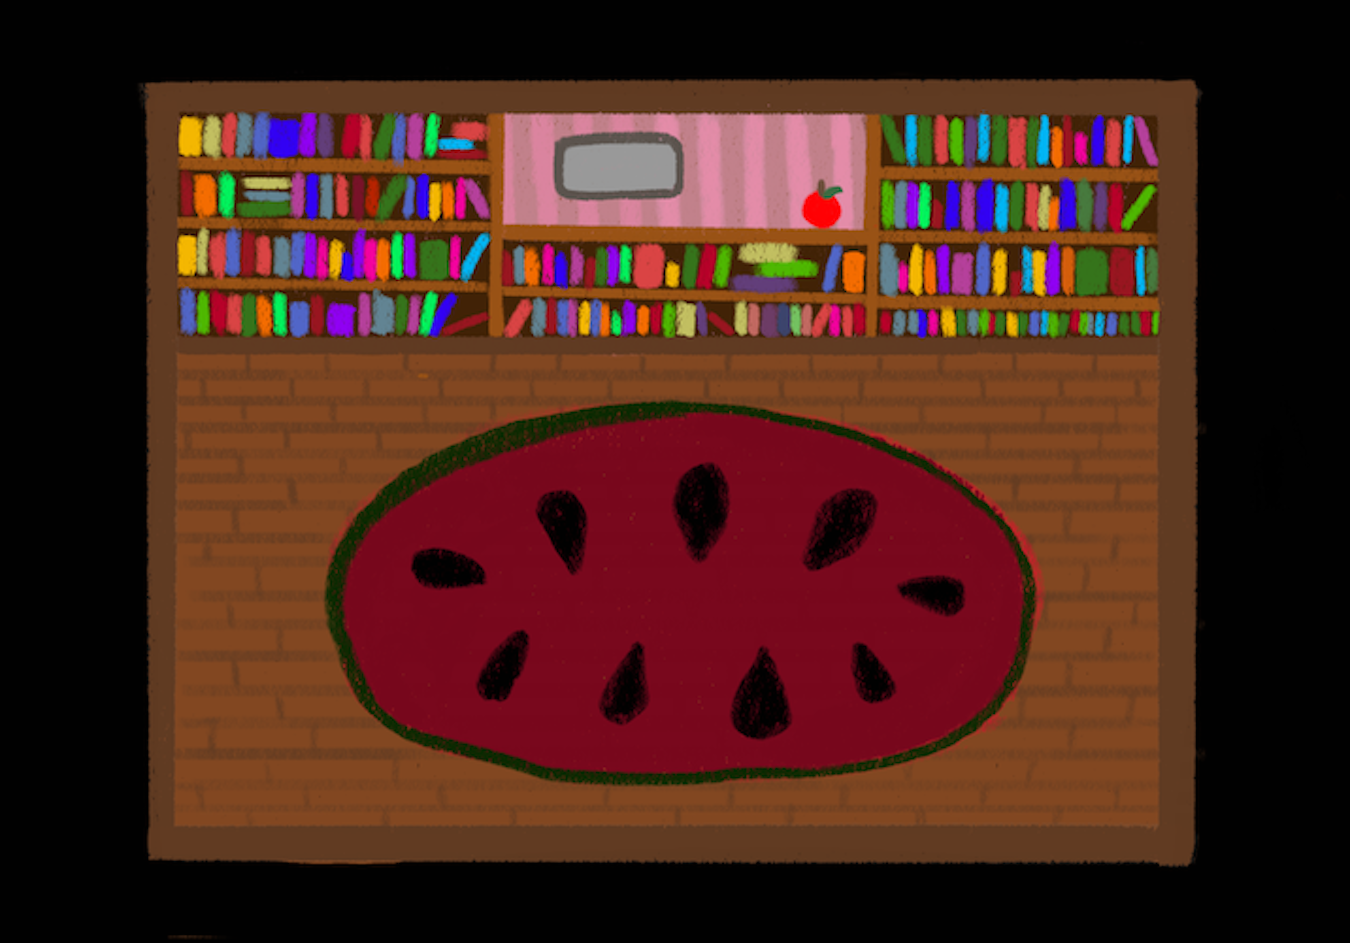
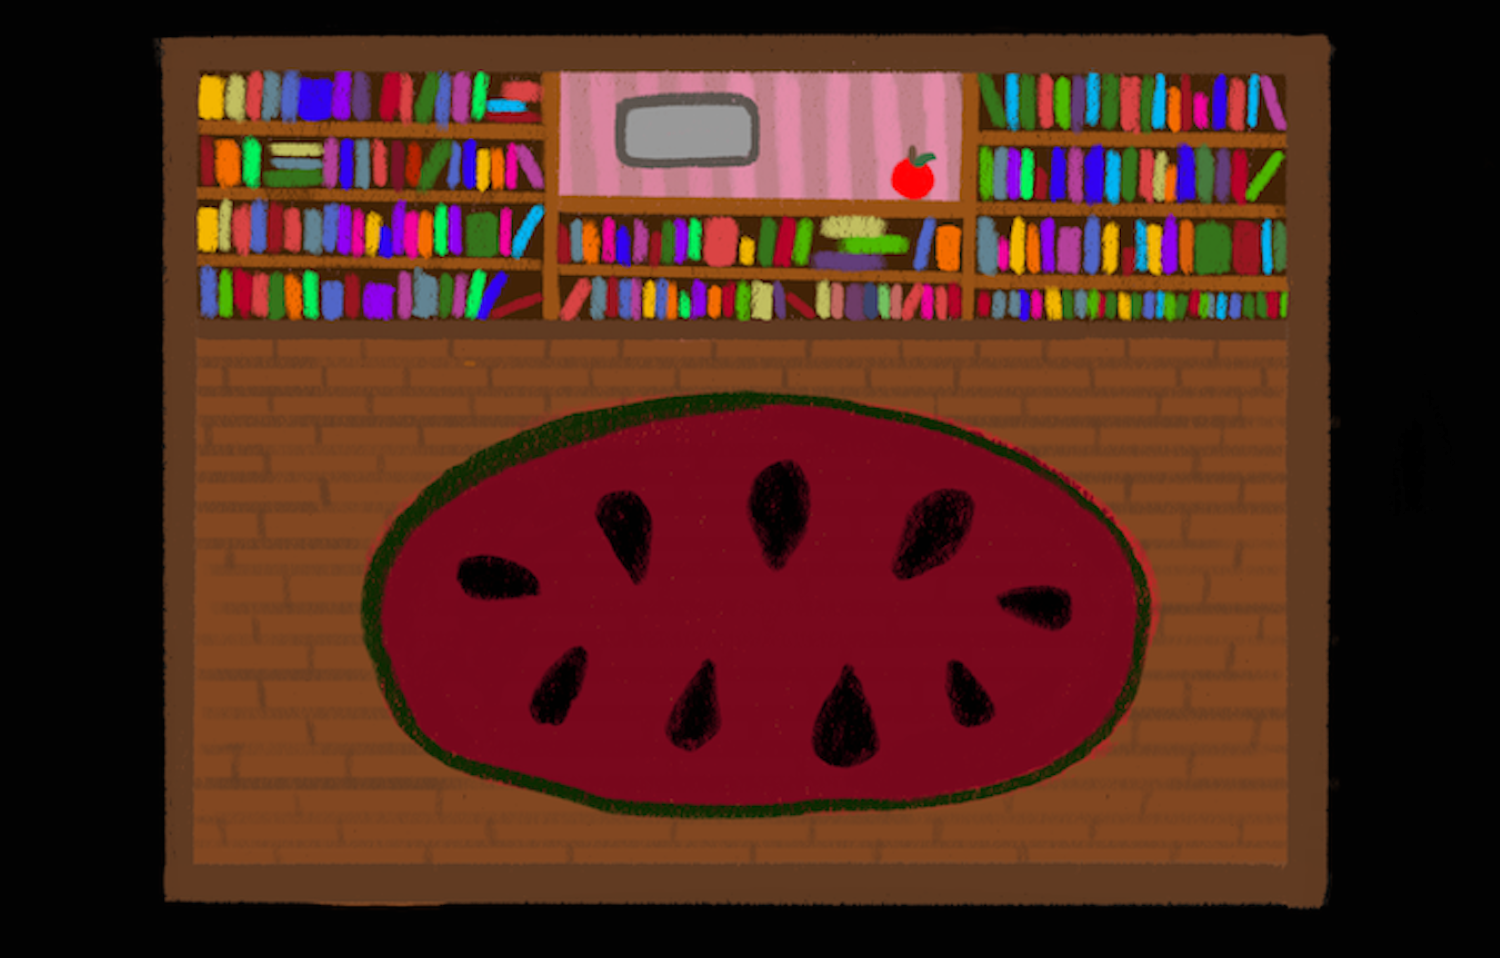
:lipstick: redesign studyroom

diff --git a/components/InvitePopup.tsx b/components/InvitePopup.tsx
@@ -64,6 +64,8 @@ const InvitePopup = ({ hostId, hostUsername, isHost }: IInvitePopup) => {
   const [setDefault] = useHomeStore((state) => [state.setDefault]);
   const [isMulti, setIsMulti] = useState(false);
   const [refresh, setRefresh] = useState(false);
+  const [guestNotFound, setGuestNotFound] = useState(false);
+  const [hostNotFound, setHostNotFound] = useState(false);
 
   const onInviteSubmit: SubmitHandler<{ inviteUsername: string }> = async (
     data,
@@ -71,21 +73,34 @@ const InvitePopup = ({ hostId, hostUsername, isHost }: IInvitePopup) => {
     const username = data.inviteUsername;
     const { data: guest } = await getPlayerByUsername(username);
     if (!guest) throw new Error("Invalid user!"); // TODO add error message to form
+    if (!guest[0]) {
+      setGuestNotFound(true);
+      setTimeout(() => setGuestNotFound(false), 1000);
+    } else {
+      await sendInviteMutation.mutateAsync({
+        hostId: hostId,
+        guestId: guest[0]._id.toString(),
+      });
+      resetInvite("inviteUsername");
 
-    await sendInviteMutation.mutateAsync({
-      hostId: hostId,
-      guestId: guest[0]._id.toString(),
-    });
-    resetInvite("inviteUsername");
-
-    refetchHostRoom();
+      refetchHostRoom();
+    }
   };
-  const onJoinSubmit: SubmitHandler<{ joinUsername: string }> = ({
+  const onJoinSubmit: SubmitHandler<{ joinUsername: string }> = async ({
     joinUsername,
   }) => {
     // router.push(`${process.env.NEXT_PUBLIC_DOMAIN}/home/${joinUsername}`);
-    window.location.href = `${process.env.NEXT_PUBLIC_DOMAIN}/home/${joinUsername}`;
-    resetJoin("joinUsername");
+    const { data: host } = await getPlayerByUsername(joinUsername);
+    if (!host) throw new Error("Invalid user!"); // TODO add error message to form
+    if (!host[0]) {
+      setHostNotFound(true);
+      setTimeout(() => setHostNotFound(false), 1000);
+    } else {
+      window.location.href = `${process.env.NEXT_PUBLIC_DOMAIN}/home/${joinUsername}`;
+      resetJoin("joinUsername");
+      setDefault();
+    }
+
     // setDefault();
   };
   // closes popup when escape key is pressed
@@ -136,11 +151,17 @@ const InvitePopup = ({ hostId, hostUsername, isHost }: IInvitePopup) => {
           <p className="text-2xl text-red-900">
             Control who can visit your habitat!
           </p>
+          {guestNotFound && (
+            <p className="w-full text-center text-2xl text-red-500">
+              User does not exist
+            </p>
+          )}
           <input
             className="h-16 w-3/4 rounded-xl p-2 text-2xl text-black outline-red-900"
             placeholder="Enter player's username"
             {...registerInvite("inviteUsername")}
           />
+
           <button className="ml-2 mt-4 h-14 w-28 rounded-3xl bg-[url('/backgrounds/redBg.png')] text-3xl text-white outline-white hover:bg-[url('/backgrounds/pinkBg.png')] hover:outline">
             Invite
           </button>
@@ -186,13 +207,7 @@ const InvitePopup = ({ hostId, hostUsername, isHost }: IInvitePopup) => {
           </div>
         </div>
       ) : isHost ? (
-        <form
-          className="-left-1/4 w-1/2 "
-          onSubmit={async () => {
-            await handleJoin(onJoinSubmit)();
-            setDefault();
-          }}
-        >
+        <form className="-left-1/4 w-1/2 " onSubmit={handleJoin(onJoinSubmit)}>
           <div className="h-full w-full rounded-3xl bg-[url('/backgrounds/whiteBg.png')] p-4">
             <img src="/icons/strawberryCow.png"></img>
             <p className="h-fit w-full text-5xl text-red-950 underline">
@@ -209,6 +224,11 @@ const InvitePopup = ({ hostId, hostUsername, isHost }: IInvitePopup) => {
             <button className="ml-2 mt-4 h-14 w-28 rounded-3xl bg-[url('/backgrounds/redBg.png')] text-3xl text-white outline-white hover:bg-[url('/backgrounds/pinkBg.png')] hover:outline">
               Join
             </button>
+            {hostNotFound && (
+              <p className="w-full text-center text-2xl text-red-500">
+                User does not exist
+              </p>
+            )}
           </div>
         </form>
       ) : (

diff --git a/app/(protected)/home/[username]/page.tsx b/app/(protected)/home/[username]/page.tsx
@@ -371,19 +371,19 @@ export default function Home({ params }: { params: { username: string } }) {
           </div>
 
           {/* studyroom */}
-          <div className="absolute flex h-full w-full select-none items-center justify-center">
+          <div className="absolute m-0 flex h-screen w-screen select-none items-center justify-center">
             <div
               id="studyroom_load_sprites"
-              className="absolute bottom-0 z-10 flex h-3/5 w-1/2 flex-wrap justify-evenly"
+              className="absolute bottom-10% z-10 flex h-3/5 w-1/2 flex-wrap justify-evenly"
             ></div>
           </div>
           {currScene == "studyroom" && (
-            <div>
+            <div className="absolute h-screen w-screen overflow-hidden bg-black bg-[url('/backgrounds/studyroom.png')] bg-contain bg-center bg-no-repeat">
               <span
                 className="absolute right-20 top-10 z-10 h-20 w-16 bg-[url('/objects/leave.png')] bg-right-top bg-no-repeat hover:bg-[url('/objects/leave_hover.png')]"
                 onClick={async () => {
                   if (!game) return;
-                  if (!isHost) {
+                  if (isHost) {
                     const player = game.registry.get(
                       "player",
                     ) as Phaser.GameObjects.Sprite;
@@ -400,7 +400,7 @@ export default function Home({ params }: { params: { username: string } }) {
                 }}
               />
 
-              <div className="w-70 z-30 m-9 flex h-52 items-center justify-center">
+              <div className="w-70 mt-2% z-30 flex h-52 items-center justify-center">
                 {/* <span className = "absolute flex flex-wrap top-0 z-30 h-1/5 w-1/5 m-16 justify-center top-0">
               <form id='duration' className = "z-40 right-0 select-none">
                 <input id='h' name='h' type='number' min='0' max='23' className = "cursor-text opacity-50"/>
@@ -422,7 +422,7 @@ export default function Home({ params }: { params: { username: string } }) {
             </div>
           )}
 
-          <div className="top-17 absolute bottom-0 right-0 z-40 ml-6 flex h-34% w-1/4 items-end justify-center p-1 text-center">
+          <div className="top-17 absolute bottom-0 right-0 z-20 ml-6 flex h-34% w-1/4 items-end justify-center p-1 text-center">
             <ChatLogPhaser
               username={
                 currentPlayer?.data
@@ -502,7 +502,7 @@ export default function Home({ params }: { params: { username: string } }) {
               </div>
             </div>
           )}
-          {!isHost && (
+          {!isHost && gameLoaded && (
             <div className="absolute flex w-full justify-center">
               <div
                 className="inset-y-0 z-10 h-28 w-96 bg-[url('/objects/houseCloud.png')] bg-left-top bg-no-repeat hover:z-20 hover:cursor-pointer hover:bg-[url('/objects/leaveCloud.png')]"

diff --git a/app/(errors)/error/page.tsx b/app/(errors)/error/page.tsx
@@ -2,24 +2,32 @@ import { CustomErrorCode } from "@/types";
 
 export default function ErrorPage() {
   return (
-    <div className="p-5">
-      <h1 className="text-2xl">
-        Something went wrong! We have custom errors, but cannot display them to
-        you at the moment. This will change in the upcoming release.
+    <div className="h-screen w-screen bg-[url(/backgrounds/greenBg.png)] bg-cover p-5">
+      <h1 className="w-fit rounded-3xl bg-[url(/backgrounds/lightBlueBg.png)] bg-cover p-2 text-5xl text-white">
+        Something went wrong!
       </h1>
-      <h2 className="text-xl">
-        There can be multiple reasons for this, which includes but not limited
-        to...
-      </h2>
-      <ul className="list-disc pl-5">
-        {Object.values(CustomErrorCode).map((err) => (
-          <li key={err}>{err}</li>
-        ))}
-      </ul>
-      <div className="mt-3">
-          <a href={`${process.env.NEXT_PUBLIC_DOMAIN}`} className="py-3 px-2 bg-orange-200 rounded-md">
-            Return home
-          </a>
+      <div className=" m-5 w-fit rounded-2xl bg-[url(/backgrounds/whiteGrayBg.png)] p-2">
+        <h1 className="text-3xl text-gray-800">
+          We have custom errors, but cannot display them to you at the moment.
+          This will change in the upcoming release.
+        </h1>
+        <h2 className="mt-5 text-3xl underline">
+          There can be multiple reasons for this, which includes but not limited
+          to...
+        </h2>
+        <ul className="list-disc pl-5 text-3xl">
+          {Object.values(CustomErrorCode).map((err) => (
+            <li key={err}>{err}</li>
+          ))}
+        </ul>
+      </div>
+      <div className="">
+        <a
+          href={`${process.env.NEXT_PUBLIC_DOMAIN}`}
+          className="rounded-3xl bg-[url(/backgrounds/lightBlueBg.png)] bg-cover px-2 py-3 text-3xl text-white outline-white hover:outline"
+        >
+          Return home
+        </a>
       </div>
     </div>
   );

diff --git a/components/SendMailPopup.tsx b/components/SendMailPopup.tsx
@@ -20,11 +20,13 @@ export default function SendMailPopup() {
   const { session } = useLuciaSession();
   const [notFound, setNotFound] = useState<boolean>();
 
+  const [loading, setLoading] = useState(false);
   const { register, handleSubmit, resetField, setError } = useForm<FormData>();
 
   // sends the mail
   const onSubmit: SubmitHandler<FormData> = async (data) => {
     const username = data.recipient;
+    setLoading(true);
     const { data: receiver } = await getPlayerByUsername(username);
     if (!receiver) throw new Error("Invalid user!"); // TODO add error message to form
     console.log(receiver[0]);
@@ -91,8 +93,11 @@ export default function SendMailPopup() {
             </div>
             {/* Send Mail Button */}
             <div className="flex items-center justify-center">
-              <button className="bottom-0 z-50 m-6 h-fit w-fit rounded-xl bg-[url('/backgrounds/redBg.png')] p-3 text-3xl text-white outline-white hover:cursor-pointer hover:bg-[url(/backgrounds/pinkBg.png)] hover:outline">
-                Send
+              <button
+                disabled={loading}
+                className="bottom-0 z-50 m-6 h-fit w-fit rounded-xl bg-[url('/backgrounds/redBg.png')] p-3 text-3xl text-white outline-white hover:cursor-pointer hover:bg-[url(/backgrounds/pinkBg.png)] hover:outline"
+              >
+                {loading ? "Sending..." : "Send"}
               </button>
             </div>
           </form>

diff --git a/components/HelpPopup.tsx b/components/HelpPopup.tsx
@@ -1,10 +1,21 @@
 import { useHomeStore } from "@/phaser/stores";
-import React, { useState } from "react";
+import React, { useEffect, useState } from "react";
 
 export default function HelpPopup({ defaultTab }: { defaultTab: string }) {
   const [setDefault] = useHomeStore((state) => [state.setDefault]);
   const [helpContent, setHelpContent] = useState(defaultTab);
 
+  useEffect(() => {
+    const handleEscapePress = (event: KeyboardEvent) => {
+      setDefault();
+    };
+
+    document.addEventListener("keydown", handleEscapePress);
+
+    return () => {
+      document.removeEventListener("keydown", handleEscapePress);
+    };
+  });
   return (
     <div className="z-50">
       {/* how to play pop up */}

diff --git a/phaser/scenes/studyroom.ts b/phaser/scenes/studyroom.ts
@@ -41,10 +41,10 @@ class studyroom extends Scene {
       const player = this.physics.add.sprite(725, 830, "transparent");
       this.sprites = [];
 
-      const studyroom = this.add.image(750, 425, "studyroom");
+      // const studyroom = this.add.image(750, 425, "studyroom");
       player.setDataEnabled();
       this.registry.set("player", player);
-      studyroom.setDepth(1)
+
 
       useHomeStore.setState({text: ""});
 

diff --git a/tailwind.config.ts b/tailwind.config.ts
@@ -71,6 +71,9 @@ const config: Config = {
         "30%":"30%",
         "5%":"5%",
         "7%":"7%",
+        "2%":"2%",
+        "1%":"1%",
+        "3%":"3%",
 
 
         "10%":"10%",
